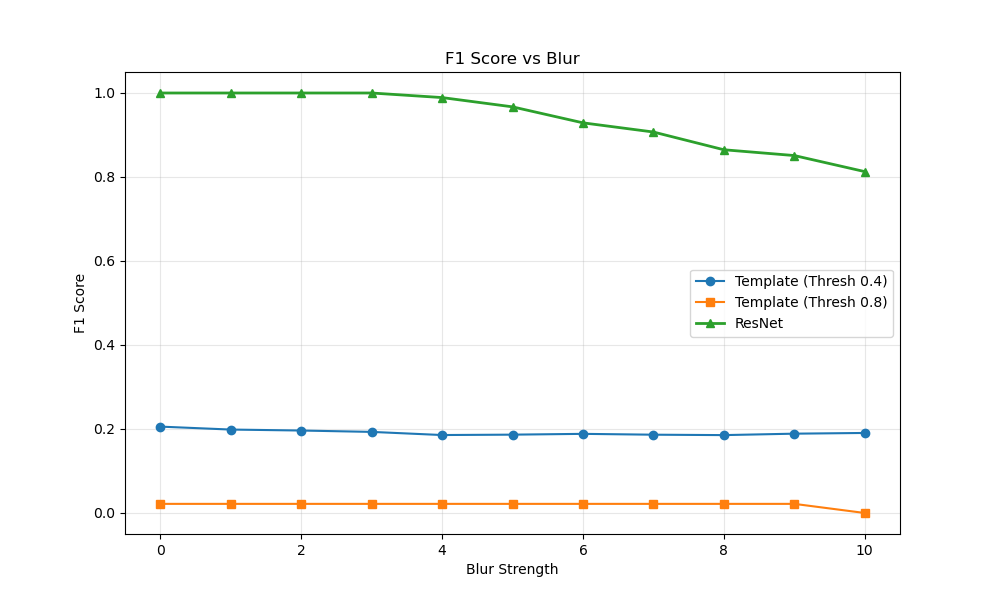
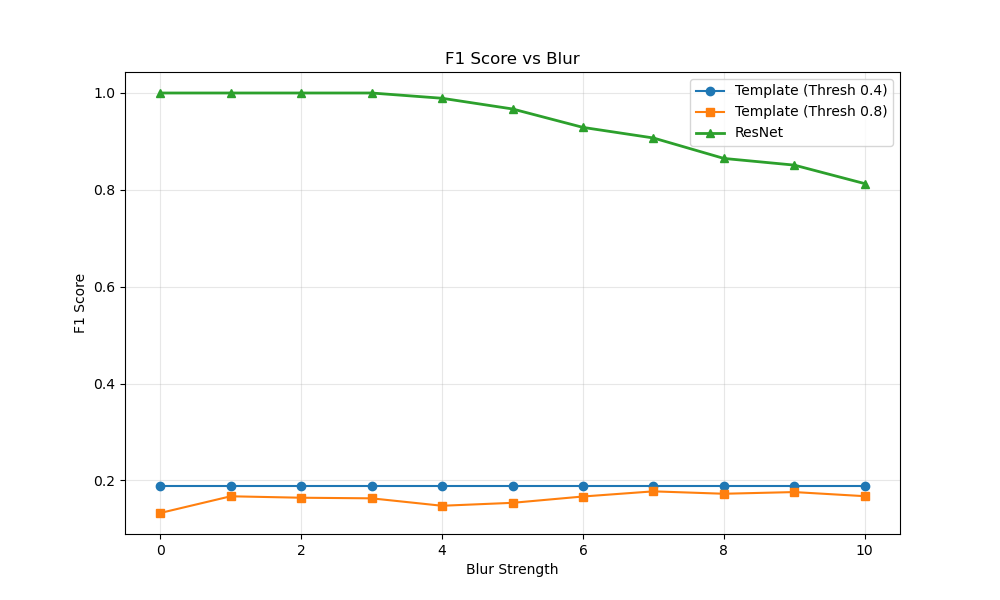
Template update
Updated to include Gaussian pyramids.

diff --git a/eval_template.py b/eval_template.py
@@ -25,23 +25,26 @@ def get_label(xml_path):
     return 0
 
 
-def multiscale_template_match(image, template, threshold):
-
+def gaussian_pyramid_template_match(image, template, threshold):
     gray = cv2.cvtColor(image, cv2.COLOR_BGR2GRAY)
-
     best_score = 0
 
-    for scale in np.linspace(0.3,1.0,10):
+    current_template = template.copy()
+    
+    while current_template.shape[0] > 10 and current_template.shape[1] > 10:
+        
+        if current_template.shape[0] > gray.shape[0] or current_template.shape[1] > gray.shape[1]:
+            break
 
-        resized = cv2.resize(template,None,fx=scale,fy=scale)
+        result = cv2.matchTemplate(gray, current_template, cv2.TM_CCOEFF_NORMED)
+        _, max_val, _, _ = cv2.minMaxLoc(result)
+        
+        best_score = max(best_score, max_val)
+        
+        if best_score > threshold:
+            return True
 
-        if resized.shape[0] > gray.shape[0] or resized.shape[1] > gray.shape[1]:
-            continue
-
-        result = cv2.matchTemplate(gray,resized,cv2.TM_CCOEFF_NORMED)
-        _,max_val,_,_ = cv2.minMaxLoc(result)
-
-        best_score = max(best_score,max_val)
+        current_template = cv2.pyrDown(current_template)
 
     return best_score > threshold
 
@@ -69,7 +72,7 @@ def evaluate_template(blur_strength, threshold):
 
         img = apply_blur(img,blur_strength)
 
-        pred = multiscale_template_match(img,template,threshold)
+        pred = gaussian_pyramid_template_match(img,template,threshold)
 
         label = get_label(xml_path)
 
